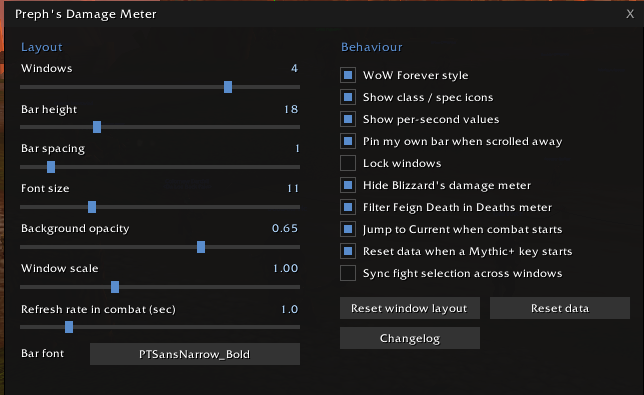
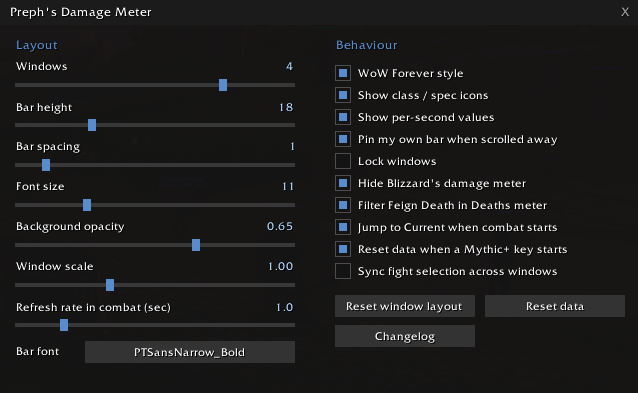
fixed another crop and added #tag for dmg meter

diff --git a/index.html b/index.html
@@ -893,27 +893,72 @@
     </script>
 
     <script>
-        // Product tab switching
-        document.querySelectorAll('.product-tab').forEach(tab => {
-            tab.addEventListener('click', () => {
-                const product = tab.dataset.product;
+        // Product tab switching + shareable GitHub Pages hash URL.
+        // This stays on the same index.html; #damage-meter is only a URL fragment.
+        (() => {
+            const tabs = document.querySelectorAll('.product-tab');
+            const prephuiPage = document.getElementById('prephui-page');
+            const damagePage = document.getElementById('damage-page');
+
+            if (!tabs.length || !prephuiPage || !damagePage) return;
+
+            const titles = {
+                prephui: 'PrephUI - Modern WoW Interface',
+                damage: "Preph's Damage Meter - PrephUI"
+            };
+
+            function setProduct(product, { updateUrl = false, scroll = true } = {}) {
                 const isDamage = product === 'damage';
 
-                document.querySelectorAll('.product-tab').forEach(t => {
-                    const active = t === tab;
-                    t.classList.toggle('active', active);
-                    t.setAttribute('aria-selected', active ? 'true' : 'false');
+                tabs.forEach(tab => {
+                    const active = tab.dataset.product === product;
+                    tab.classList.toggle('active', active);
+                    tab.setAttribute('aria-selected', active ? 'true' : 'false');
                 });
 
-                document.getElementById('prephui-page').hidden = isDamage;
-                document.getElementById('damage-page').hidden = !isDamage;
+                prephuiPage.hidden = isDamage;
+                damagePage.hidden = !isDamage;
+                document.title = isDamage ? titles.damage : titles.prephui;
 
-                window.scrollTo({ top: 0, behavior: 'smooth' });
-                document.title = isDamage
-                    ? "Preph's Damage Meter - PrephUI"
-                    : "PrephUI - Modern WoW Interface";
+                if (updateUrl) {
+                    const url = new URL(window.location.href);
+                    url.hash = isDamage ? 'damage-meter' : '';
+                    window.history.pushState({ product }, '', url);
+                }
+
+                if (scroll) {
+                    window.scrollTo({ top: 0, behavior: 'smooth' });
+                }
+            }
+
+            function productFromHash() {
+                return window.location.hash.toLowerCase() === '#damage-meter'
+                    ? 'damage'
+                    : 'prephui';
+            }
+
+            tabs.forEach(tab => {
+                tab.addEventListener('click', () => {
+                    setProduct(tab.dataset.product, {
+                        updateUrl: true,
+                        scroll: !tab.classList.contains('active')
+                    });
+                });
             });
-        });
+
+            // Open the correct product directly from a shared URL.
+            setProduct(productFromHash(), { updateUrl: false, scroll: false });
+
+            // Browser Back / Forward.
+            window.addEventListener('popstate', () => {
+                setProduct(productFromHash(), { updateUrl: false, scroll: true });
+            });
+
+            // Manual hash changes.
+            window.addEventListener('hashchange', () => {
+                setProduct(productFromHash(), { updateUrl: false, scroll: true });
+            });
+        })();
     </script>
 
     <!-- Particle Engine Script -->
